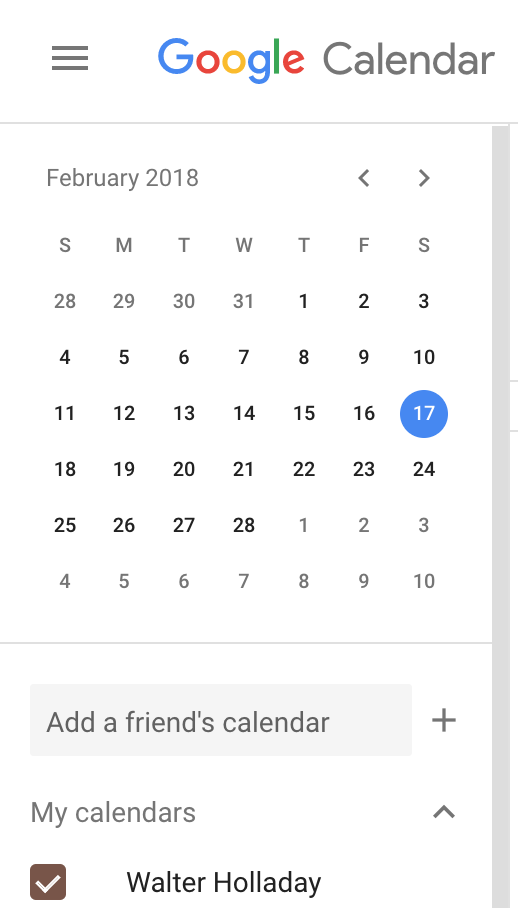
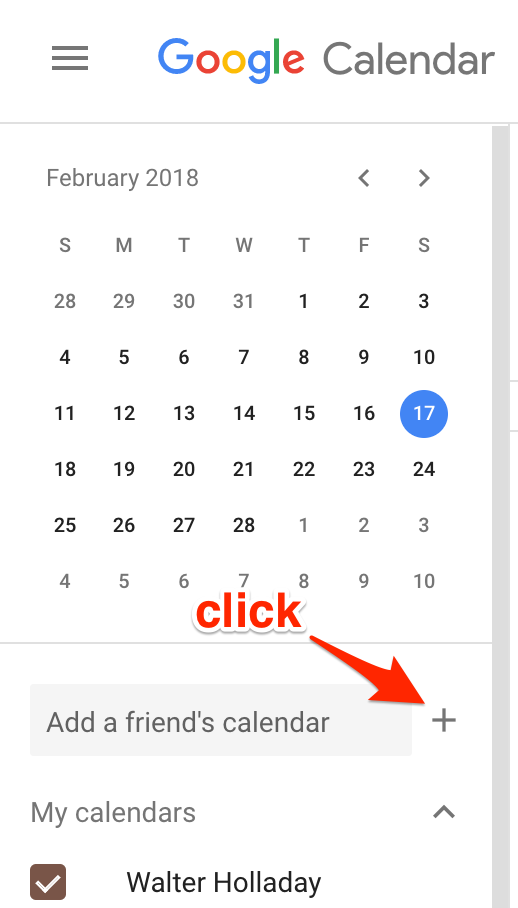
Beefed up the instructions.

Changed region(s): [[0.3707, 0.6476, 0.6178, 0.7093], [0.6178, 0.7093, 0.834, 0.8018], [0.4324, 0.0308, 0.4942, 0.0925]]

diff --git a/README.md b/README.md
@@ -1,7 +1,7 @@
-# ReadingSchedule
+# Reading Schedule Usage
 
 Use this app to generate an ICS file that can be imported into Google Calendar,
-or any calendar app that accepts ICS files. Below are instructions on how to 
+or any calendar app that accepts ICS files. Below are instructions on how to
 import your reading schedule into Google Calendar.
 
 ## Generate the schedule using the app
@@ -13,8 +13,35 @@ the ICS file.
 
 ## Import the calendar into Google Calendar
 
-1. Go to your calendar page on google https://calendar.google.com
-2. ![click on plus](images/Calendar1.png?raw=true "title")
+1. Go to your calendar page on google [calendar.google.com](https://calendar.google.com)
+1. Click on the plus sign to add a new calendar
+![click plus sign](images/Calendar1.png)
+1. Select "New Calendar"
+![click "New Calendar"](images/Calendar2.png)
+1. When then dialog opens, choose a name for your calendar, like "Scriptures," click on the
+"Create Calendar" link, when the calendar is created, click on the "Settings" arrow to go
+back to the calendar page.
+![create a new calendar](images/Calendar3.png)
+1. Now click on the plus sign again, but this time choose "Import." When the dialog opens, select
+your newly created calendar from the "Add to calendar" menu. Next click on the
+"Select file from your computer" link and choose the file that was generated by this app.
+Finally, click on the "Import" link.
+![import ics file to calendar](images/Calendar4.png)
+1. Return back to your calendar, and verify that your new reading schedule shows up as it
+should. If anything went wrong, your can easily delete your newly created calendar and start
+over.
+
+# Notes for developers
+
+This project was generated with [Angular CLI](https://github.com/angular/angular-cli) version 1.6.2.
+
+## Development server
+
+Run `ng serve` for a dev server. Navigate to `http://localhost:4200/`. The app will automatically reload if you change any of the source files.
+
+## Code scaffolding
+
+Run `ng generate component component-name` to generate a new component. You can also use `ng generate directive|pipe|service|class|guard|interface|enum|module`.
 
 ## Build
 
